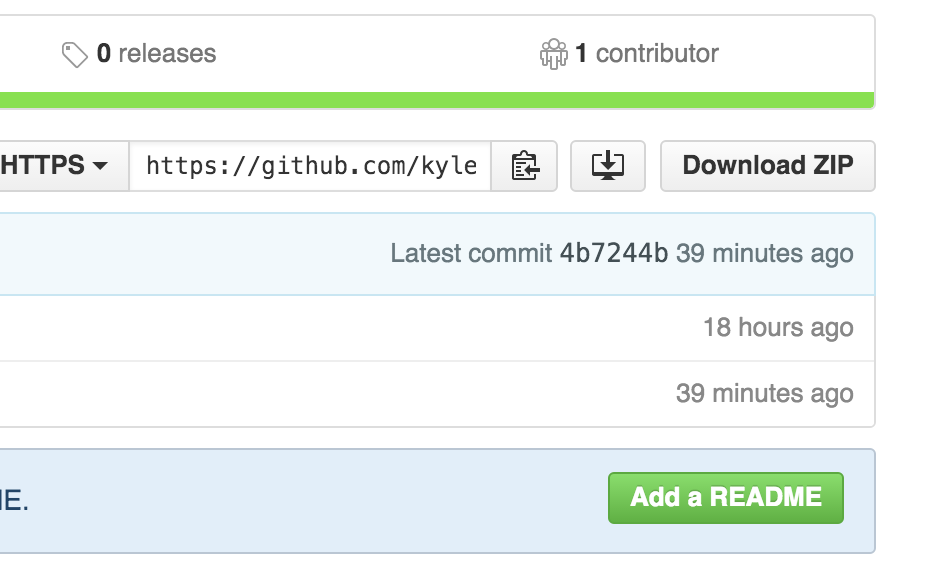
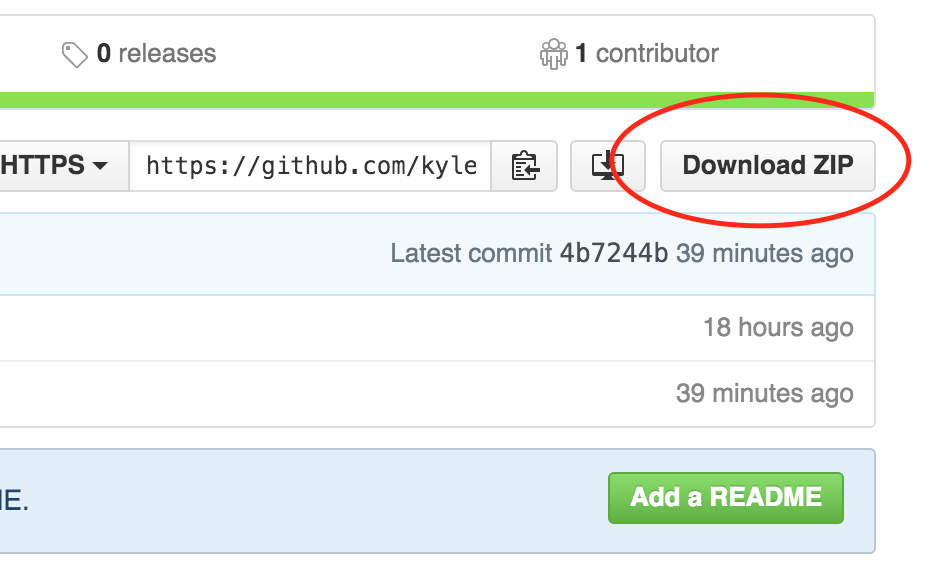
making photos for readme red

diff --git a/README.md b/README.md
@@ -1,3 +1,3 @@
 ##Usage
-1.Look for the Download Zip button.
+1.Look for the Download Zip button and press it.
 ![alt tag](https://raw.githubusercontent.com/kyleschnirring/Fast-Photo-Copier/master/images/download.png)
